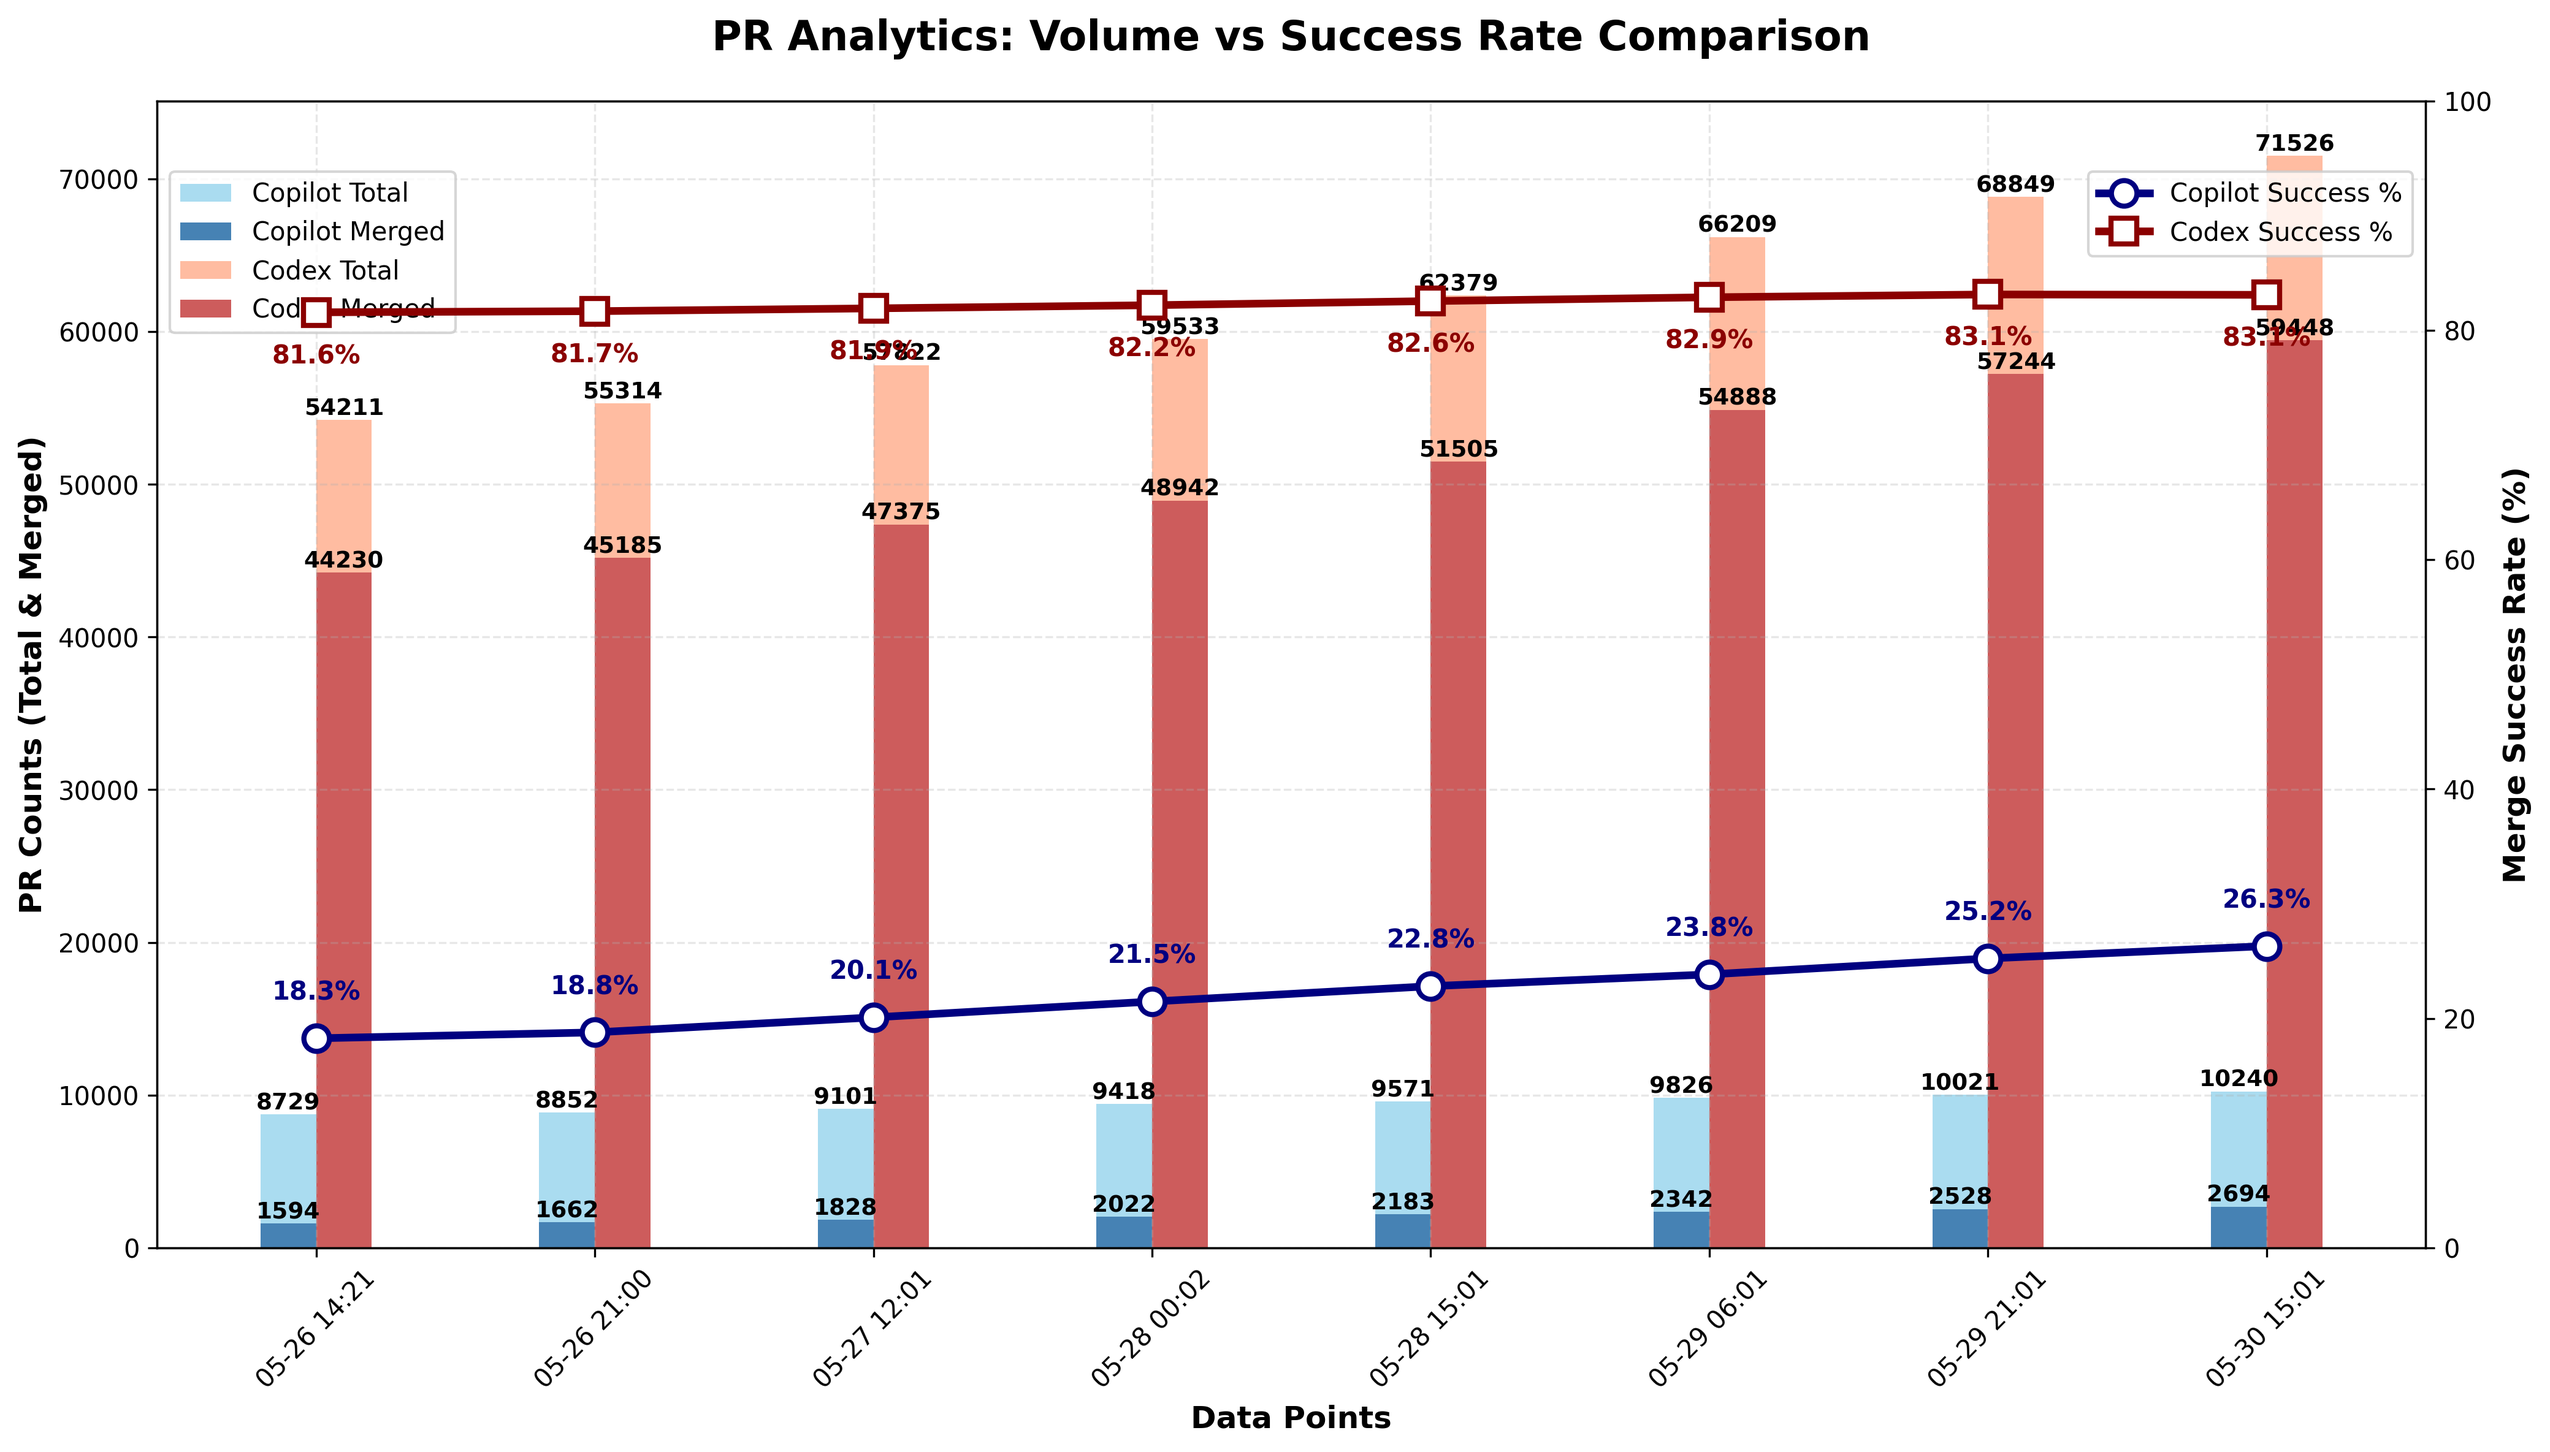
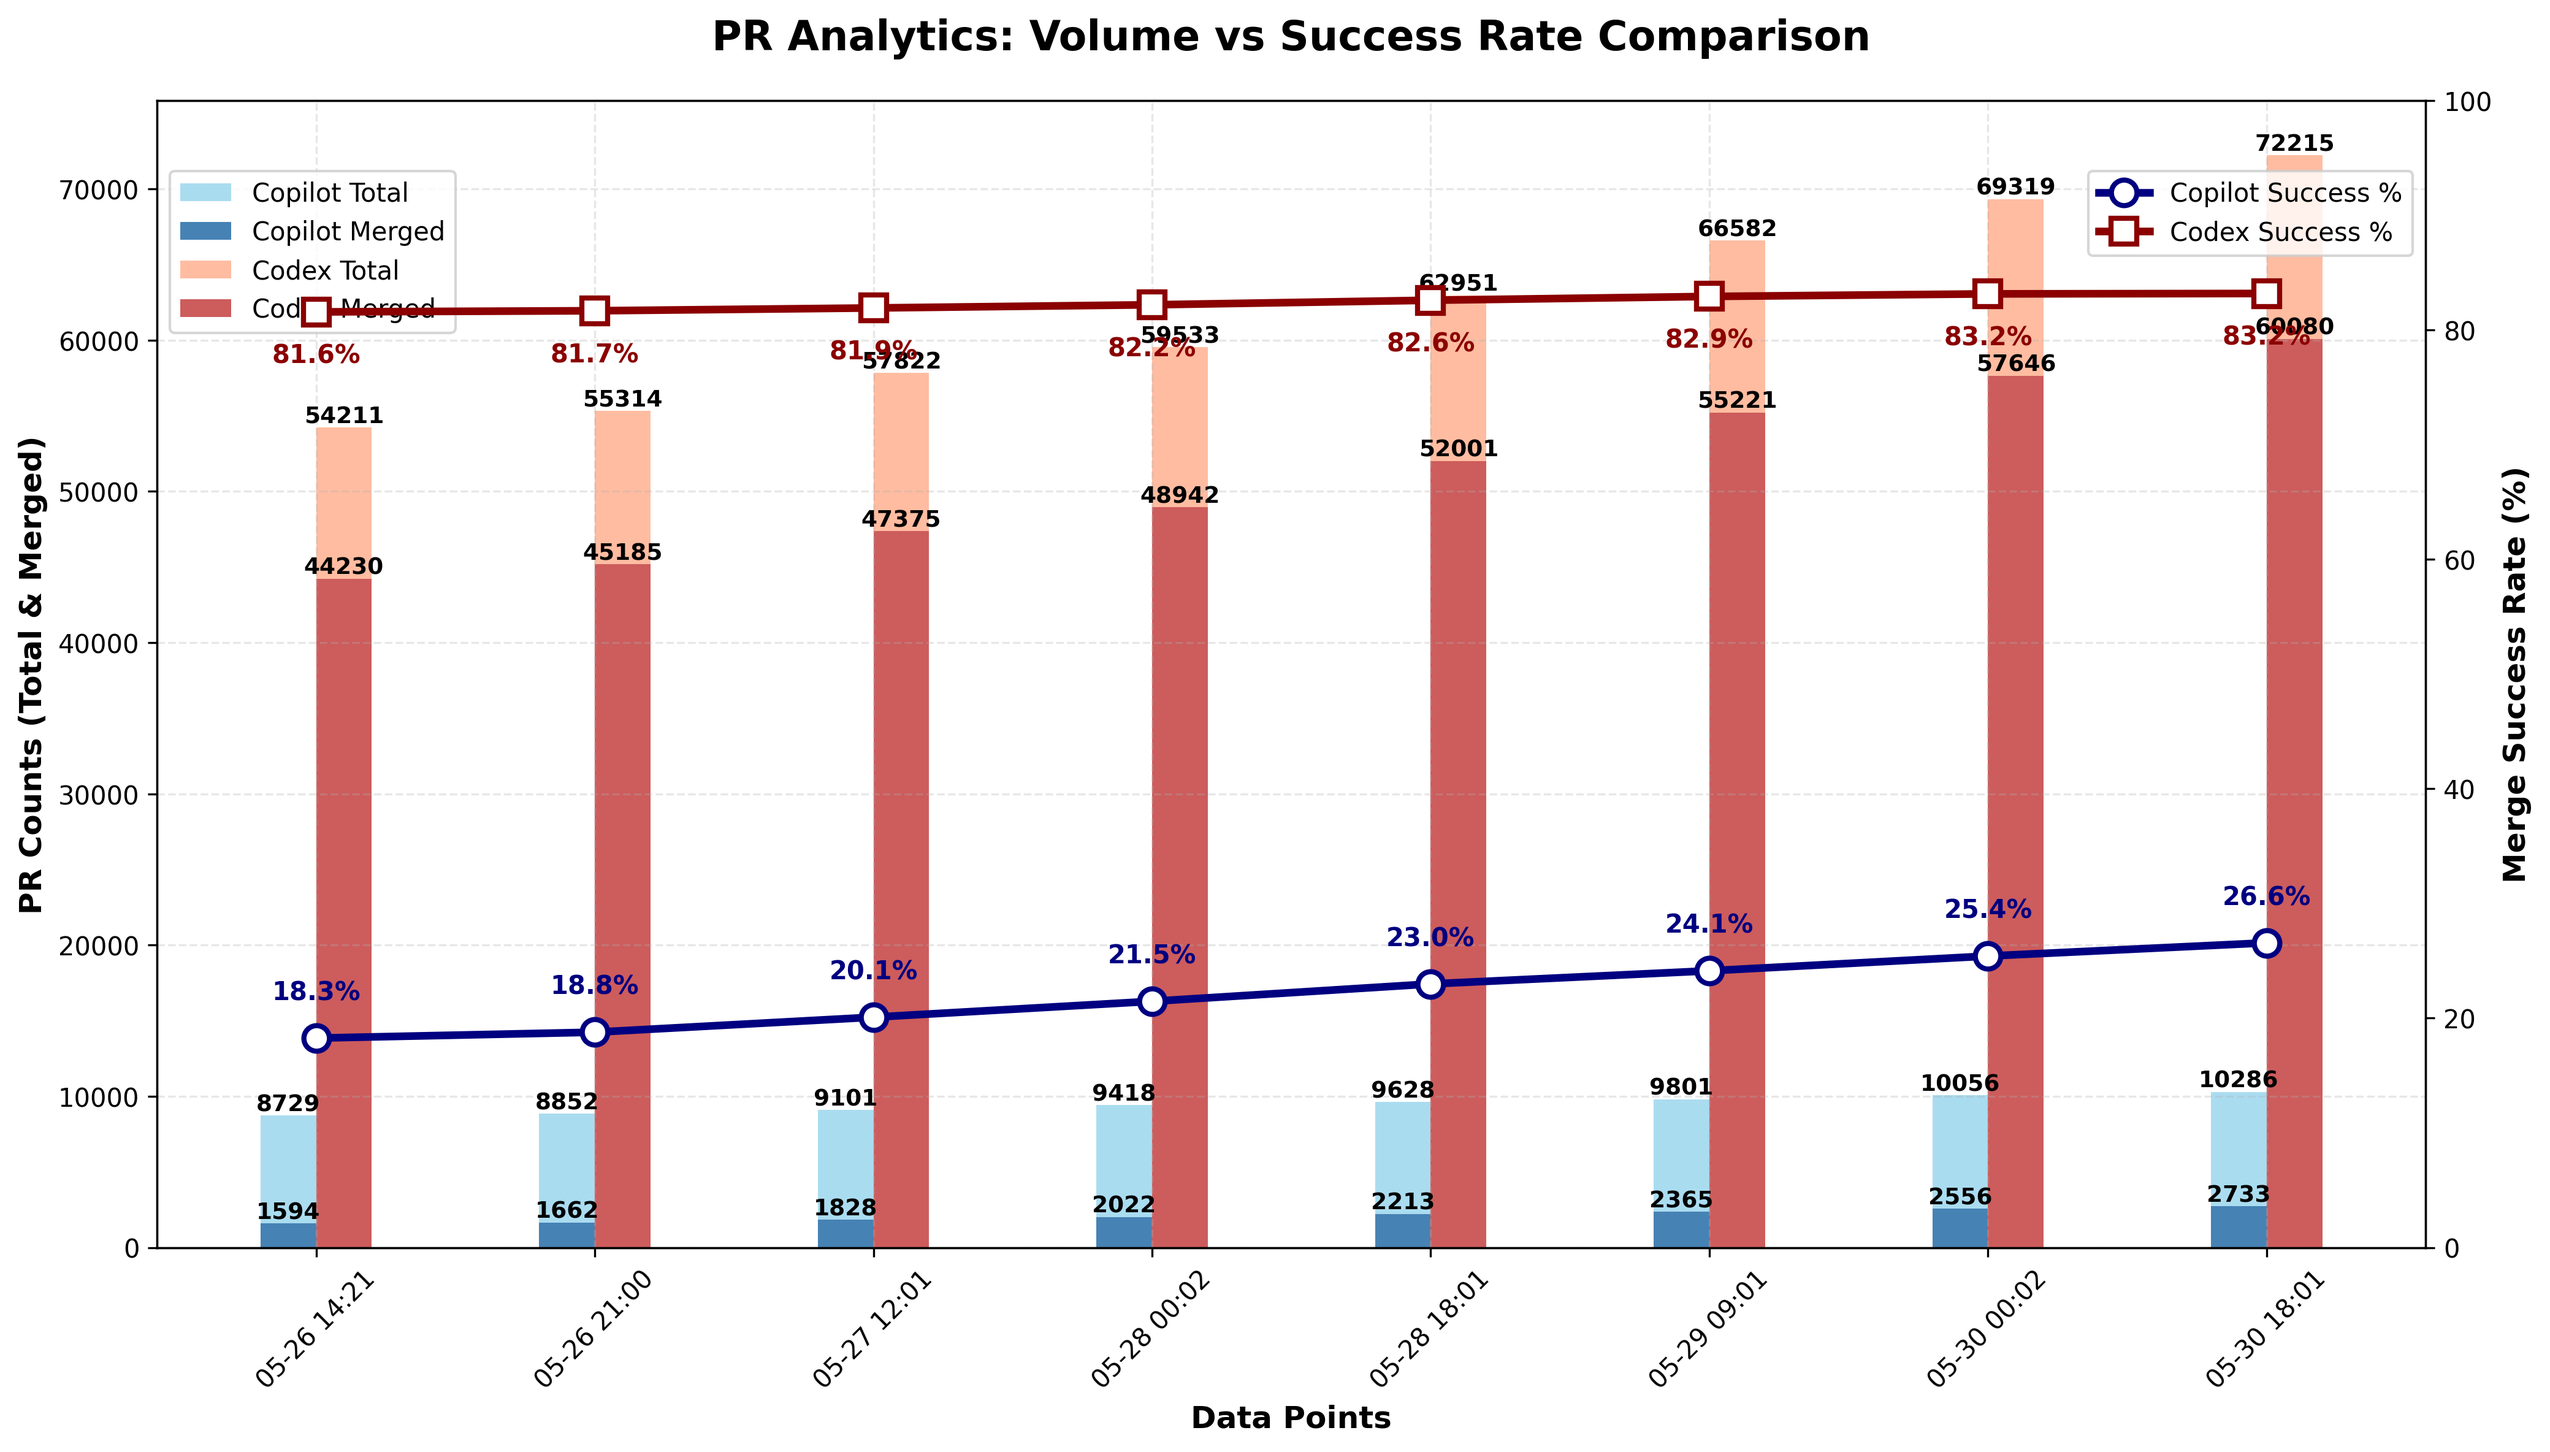
chore: update PR‑approval chart

diff --git a/docs/index.html b/docs/index.html
@@ -44,22 +44,22 @@
                 <tbody>
                     <tr>
                         <td>Copilot</td>
-                        <td>10,240</td>
-                        <td>2,694</td>
-                        <td>26.31%</td>
+                        <td>10,286</td>
+                        <td>2,733</td>
+                        <td>26.57%</td>
                     </tr>
                     <tr>
                         <td>Codex</td>
-                        <td>71,526</td>
-                        <td>59,448</td>
-                        <td>83.11%</td>
+                        <td>72,215</td>
+                        <td>60,080</td>
+                        <td>83.20%</td>
                     </tr>
                 </tbody>
             </table>
         </section>
 
         <footer>
-            <p>Last updated: <span id="last-updated">May 30, 2025 15:01 UTC</span></p>
+            <p>Last updated: <span id="last-updated">May 30, 2025 18:01 UTC</span></p>
             <p><a href="https://github.com/aavetis/ai-pr-watcher">View on GitHub</a></p>
         </footer>
     </div>

diff --git a/README.md b/README.md
@@ -19,5 +19,5 @@ Explore the GitHub search queries used:
 
 | Project | Total PRs | Merged PRs | Merge Rate |
 | ------- | --------- | ---------- | ---------- |
-| Copilot | 10,240 | 2,694 | 26.31% |
-| Codex   | 71,526 | 59,448 | 83.11% |
+| Copilot | 10,286 | 2,733 | 26.57% |
+| Codex   | 72,215 | 60,080 | 83.20% |
